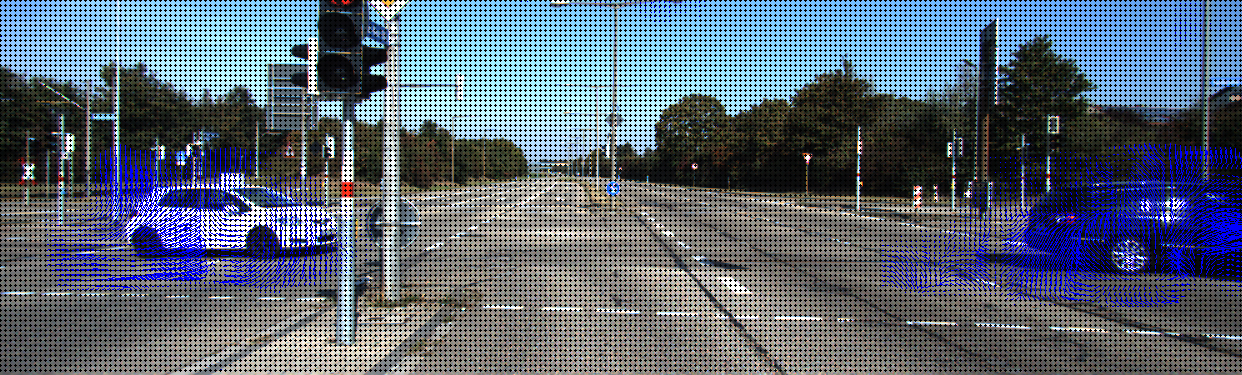
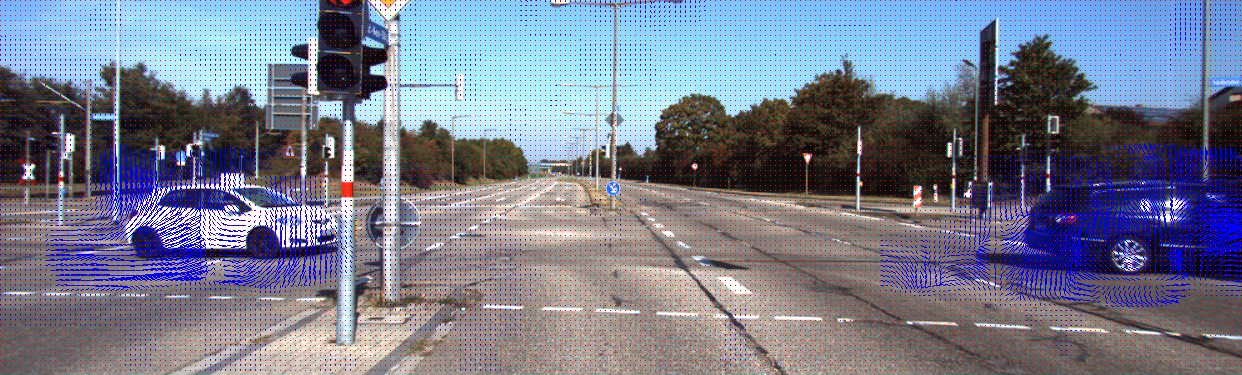
update

Changed region(s): [[0.0, 0.0, 1.0, 0.9973]]

diff --git a/DenseOpticalFlow/FarnebackOF/FarnebackOF.cpp b/DenseOpticalFlow/FarnebackOF/FarnebackOF.cpp
@@ -27,8 +27,13 @@ int main()
 		for (int x = 0; x < next_frame.cols; x += 5)
 		{
 			const Point2f flowatxy = flow_frame.at<Point2f>(y, x) * 10;
-			line(next_frame, Point(x, y), Point(cvRound(x + flowatxy.x), cvRound(y + flowatxy.y)), Scalar(255, 0, 0));
-			circle(next_frame, Point(x, y), 1, Scalar(0, 0, 0), -1);
+			line(next_frame, Point(x, y), Point(cvRound(x + flowatxy.x), cvRound(y + flowatxy.y)), Scalar(255, 0, 0));  
+			/*
+			flowatxy.x  flowatxy.y --光流偏移量
+			x y  -- 以5为步进均匀取点
+			x + flowatxy.x  y + flowatxy.y -- 新点位
+			*/
+			circle(next_frame, Point(x, y), 0.5, Scalar(0, 0, 255), -1);
 		}
 	}
 
